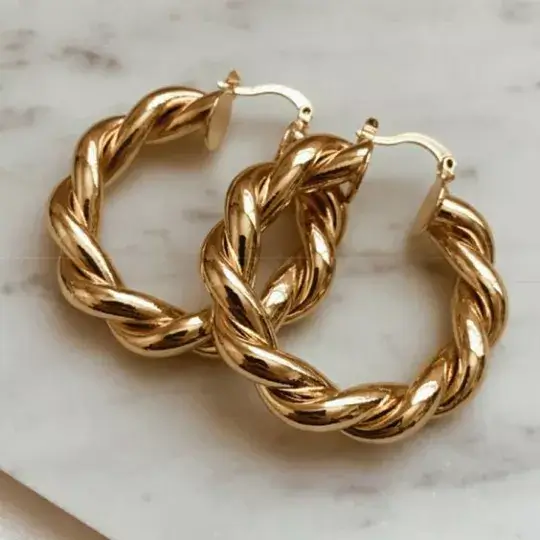
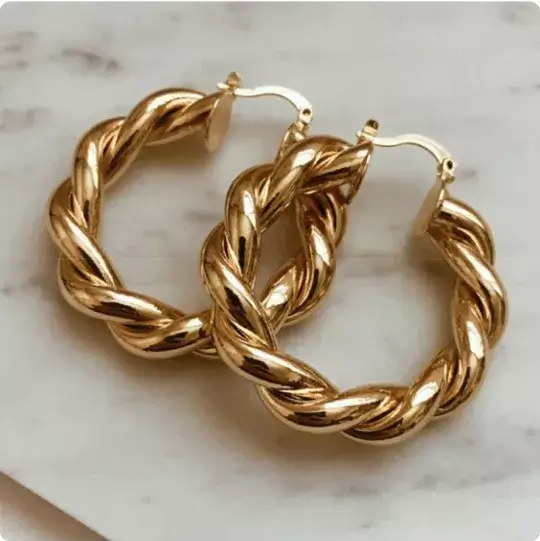
Add files via upload

diff --git a/lesson_17/index.html b/lesson_17/index.html
@@ -85,7 +85,7 @@
                         </div>
                         <div class="products__column">
                             <div class="products__item item-product">
-                                <a href="#!" class="item-product__image">
+                                <a href="#!" class="item-product__image item-product__image--size">
                                     <img src="img/gold/image-4_x2.webp" alt="image-4">
                                 </a>
                                 <div class="item-product__body">
@@ -112,15 +112,30 @@
             <div class="page__beauty beauty">
                 <div class="beauty__container">
                     <h2 class="beauty__title title">
-                        Most Popular Product
+                        Our Products
                     </h2>
                     <h3 class="beauty__label label">
-                        Best Seller Product This Week!
+                        Add our products to weekly lineup
                     </h3>
+                    <div class="beauty__item">
+                        <a href="#!" class="beauty__link-item beauty__link-item--active">
+                            Gold
+                        </a>
+                        <a href="#!" class="beauty__link-item">
+                            Diamond
+                        </a>
+                        <a href="#!" class="beauty__link-item">
+                            Bronze
+                        </a>
+                        <a href="#!" class="beauty__link-item">
+                            Silver
+                        </a>
+
+                    </div>
                     <div class="beauty__products products">
                         <div class="products__column">
                             <div class="products__item item-product">
-                                <a href="#!" class="item-product__image">
+                                <a href="#!" class="item-product__image item-product__image--radius">
                                     <img src="img/beauty/image-1_x2.webp" alt="image-1">
                                 </a>
                                 <div class="item-product__body">
@@ -138,7 +153,7 @@
                         </div>
                         <div class="products__column">
                             <div class="products__item item-product">
-                                <a href="#!" class="item-product__image">
+                                <a href="#!" class="item-product__image item-product__image--radius">
                                     <img src="img/beauty/image-2_x2.webp" alt="image-2">
                                 </a>
                                 <div class="item-product__body">
@@ -156,7 +171,7 @@
                         </div>
                         <div class="products__column">
                             <div class="products__item item-product">
-                                <a href="#!" class="item-product__image">
+                                <a href="#!" class="item-product__image item-product__image--radius">
                                     <img src="img/beauty/image-3_x2.webp" alt="image-3">
                                 </a>
                                 <div class="item-product__body">
@@ -174,7 +189,7 @@
                         </div>
                         <div class="products__column">
                             <div class="products__item item-product">
-                                <a href="#!" class="item-product__image">
+                                <a href="#!" class="item-product__image item-product__image--radius">
                                     <img src="img/beauty/image-4_x2.webp" alt="image-4">
                                 </a>
                                 <div class="item-product__body">

diff --git a/lesson_17/css/style.css b/lesson_17/css/style.css
@@ -120,12 +120,16 @@ body {
     width: 100%;
     height: 100%;
     aspect-ratio: 271 / 270;
-    object-fit: contain;
+    object-fit: cover;
     transition: all .3s ease-in-out;
 }
 
 .item-product__image:not(:last-child) {
     margin-bottom: 17px;
+}
+
+.item-product__image--size img {
+    aspect-ratio: 270 / 270;
 }
 
 .item-product__body {
@@ -163,27 +167,69 @@ body {
 /* ----- BEAUTY ----- */
 
 .beauty {
-    background-color: #FEFBF7;
+    background-color: #0E333D;
     padding-top: 120px;
     padding-bottom: 120px;
 }
 
 .beauty__container {
     text-align: center;
+    color: #fff;
 }
 
 .beauty__title {
     font-family: "Cormorant Infant",
         serif;
-    font-size: 64px;
+    font-size: 48px;
+    line-height: 1.27;
+    color: #fff;
 }
 
 .beauty__title:not(:last-child) {
     margin-bottom: 21px;
 }
 
+.beauty__label {
+    font-family: "Raleway", sans-serif;
+    font-size: 20px;
+    line-height: 1.27;
+    color: #EBEBEB;
+}
+
 .beauty__label:not(:last-child) {
-    margin-bottom: 84px;
+    margin-bottom: 34px;
+}
+
+.beauty__item {
+    display: inline-flex;
+    flex-wrap: wrap;
+    justify-content: center;
+    column-gap: 41px;
+    row-gap: 10px;
+}
+
+.beauty__item:not(:last-child) {
+    margin-bottom: 77px;
+}
+
+.beauty__link-item {
+    font-family: "Raleway",
+        sans-serif;
+    font-size: 18px;
+    line-height: 1.27;
+    transition: all .3s ease-in-out;
+}
+
+.beauty__link-item--active {
+    text-decoration: underline;
+}
+
+.item-product__image--radius {
+    border-radius: 5px;
+}
+
+.item-product__image--radius img {
+    aspect-ratio: 270 / 270;
 }
 
 /* ---- PRETTY ------*/
@@ -240,7 +286,7 @@ body {
     width: 100%;
     height: 100%;
     aspect-ratio: 357 / 240;
-    object-fit: contain;
+    object-fit: cover;
     transition: all .3s ease-in-out;
 }
 
@@ -350,6 +396,10 @@ body {
     .pretty__right-arrow:hover {
         transform: translateX(10px);
     }
+
+    .beauty__link-item:hover {
+        text-decoration: underline;
+    }
 }
 
 @media (min-width: 1600px) {
@@ -415,10 +465,6 @@ body {
         padding-bottom: 60px;
     }
 
-    .beauty__label:not(:last-child) {
-        margin-bottom: 42px;
-    }
-
     .pretty {
         padding-top: 65px;
         padding-bottom: 57px;
@@ -429,6 +475,10 @@ body {
     .card__column {
         flex: 0 0 50%;
     }
+
+    .beauty__item:not(:last-child) {
+        margin-bottom: 45px;
+    }
 }
 
 @media (max-width: 580px) {
@@ -437,7 +487,7 @@ body {
     }
 
     .page__title {
-        margin-bottom: 20px;
+        margin-bottom: 25px;
     }
 
     .title {
@@ -457,14 +507,9 @@ body {
         margin-bottom: 30px;
     }
 
-    .beauty {
-        padding-top: 30px;
-        padding-bottom: 30px;
-    }
-
     .pretty {
         padding-top: 35px;
-        padding-bottom: 27px;
+        padding-bottom: 35px;
     }
 
     .card__column {
@@ -487,12 +532,17 @@ body {
         margin-bottom: 18px;
     }
 
-    .products {
-        row-gap: 25px;
+    .beauty {
+        padding-top: 40px;
+        padding-bottom: 40px;
     }
 
-    .beauty {
-        padding-bottom: 10px;
+    .beauty__label:not(:last-child) {
+        margin-bottom: 25px;
+    }
+
+    .beauty__item:not(:last-child) {
+        margin-bottom: 40px;
     }
 
     .pretty__title:not(:last-child) {

diff --git a/lesson_17/css/fonts.css b/lesson_17/css/fonts.css
@@ -3,3 +3,4 @@
 @import url("https://fonts.googleapis.com/css?family=Cormorant+Infant:700&display=swap");
 @import url("https://fonts.googleapis.com/css?family=Inter:regular,500,600,800&display=swap");
 @import url("https://fonts.googleapis.com/css?family=Poppins:regular,600,700&display=swap");
+@import url("https://fonts.googleapis.com/css?family=Raleway:500,600&display=swap");
